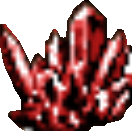
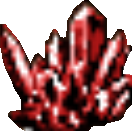
Data Class and Ship Manager

Changed region(s): [[0.9091, 0.3969, 1.0, 0.5802]]

diff --git a/js/ObjectFactory.js b/js/ObjectFactory.js
@@ -4,15 +4,17 @@ class ObjectFactory {
     }
 
     preload() {
-        this.images.push({name: "crystal", path: "assets/img/crystal.png"})
+        this.images.push({id: "crystal", path: "assets/img/crystal.png"})
+        this.images.push({id: "refinery", path: "assets/img/battleship.png"})
+        this.images.push({id: "drone", path: "assets/img/destroyer_alt.png"})
         for(let img of this.images) {
             img.image = loadImage(img.path);
         }
     }
 
-    getImageByName(name) {
+    getImageByID(id) {
         for(let img of this.images) {
-            if (img.name === name) {
+            if (img.id === id) {
                 return img.image;
             }
         }
@@ -20,14 +22,38 @@ class ObjectFactory {
     }
 
     createObject(x, y) {
-        let newObject = new Sprite(x, y);
-        newObject.debug = true;
-        return newObject;
+        let obj = new Sprite(x, y);
+        obj.debug = true;
+        return obj;
     }
 
     createResource(x, y, amount) {
-        let newObject = this.createObject(x, y);
-        newObject.image = this.getImageByName("crystal");
-        return newObject;
+        let obj = this.createObject(x, y);
+        obj.image = this.getImageByID("crystal");
+        obj.scale = 0.35;
+        return obj;
+    }
+
+    createRefinery(x, y) {
+        let obj = this.createObject(x, y);
+        obj.image = this.getImageByID("refinery");
+        obj.scale = 2;
+        return obj;
+    }
+
+    createShip(x, y, type) {
+        let obj = this.createObject(x, y);
+        obj.type = type;
+        return obj;
+    }
+
+    createDrone(x, y) {
+        let obj = this.createShip(x, y, "drone");
+        obj.image = this.getImageByID("drone");
+        obj.scale = 2;
+        obj.originalPosition = {x: x, y: y};
+        obj.targetResource = null;
+        obj.moveTimer = 0;
+        return obj;
     }
 }

diff --git a/js/Data.js b/js/Data.js
@@ -1,0 +1,53 @@
+class Data {
+    constructor() { 
+        this.factory = new ObjectFactory();
+
+        this.ships = new Array();
+        this.resources = new Array();
+
+        this.managerShip = new ManagerShip();
+    }
+
+    preload() {
+        this.factory.preload();
+    }
+
+    /*
+    * This is called at the start of the game to build the level
+    */
+    setup() {
+
+        for (let i = 0; i < 20; i++) {
+            let x = Math.random() * 1600;
+            let y = Math.random() * 900;
+            this.resources.push(this.factory.createResource(x, y, 100));
+        }
+
+        this.ships.push(this.factory.createRefinery(800, 450));
+        this.ships.push(this.factory.createDrone(900, 450));
+        this.ships.push(this.factory.createDrone(700, 450));
+    }
+
+    /*
+    * This is called each frame to update all our objects
+    */
+    update(timepassed) {
+        this.managerShip.update(timepassed, this);
+    }
+
+    getClosestResource(x, y) {
+        let index = -1;
+        let distance = 0;
+        for (let i = 0; i < this.resources.length; i++) {
+            let res = this.resources[i];
+            let dist = Utility.getDistance(x, y, res.x, res.y);
+            if (dist < distance || index < 0) {
+                index = i;
+                distance = dist;
+            }
+        }
+        return this.resources[index];
+    }
+}
+
+

diff --git a/js/ManagerShip.js b/js/ManagerShip.js
@@ -1,0 +1,34 @@
+class ManagerShip {
+    constructor() {
+    }
+
+    preload() {
+    }
+
+    update(timepassed, data) {
+
+        for(let ship of data.ships) {
+            if (ship.type === "drone") {
+                this.doDroneAI(timepassed, data, ship);
+            }
+        }
+    }
+
+    doDroneAI(timepassed, data, ship) {
+        //Insert Code or function here to handle drones each frame
+        if (ship.targetResource == null) {
+            ship.targetResource = data.getClosestResource(ship.x, ship.y);
+        }
+        ship.moveTimer += timepassed;
+        if (ship.moveTimer > 2000) {
+            ship.moveTimer -= 2000;
+        }
+        if (ship.moveTimer < 1000) {
+            ship.x = ship.originalPosition.x;
+            ship.y = ship.originalPosition.y;
+        } else {
+            ship.x = ship.targetResource.x;
+            ship.y = ship.targetResource.y;
+        }
+    }
+}

diff --git a/js/main.js b/js/main.js
@@ -1,27 +1,32 @@
 "use strict";
 
-let objectsToDraw = new Array();
-
+const data = new Data();
 const menu = new Menu();
-const factory = new ObjectFactory();
+
+var prevTime = 0;
+
 function preload(){
+    data.preload();
     menu.preload();
-    factory.preload();
 }
 
 function setup(){
+    prevTime = new Date().getTime();
+    data.setup();
     new Canvas(1600, 900);
     //menu.setup();
-
-    for (let i = 0; i < 20; i++) {
-        let x = Math.random() * 1600;
-        let y = Math.random() * 900;
-        objectsToDraw.push(factory.createResource(x, y, 100));
-    }
-    
 }
 
 function draw(){
-    background(125)
+    let newTime = new Date().getTime();
+	let msPassed = newTime - prevTime;
+	prevTime = newTime;
+
+	if (msPassed < 1) {
+		msPassed = 1;
+	}
+
+    data.update(msPassed);
+    background(25)
     //menu.draw();
 }

diff --git a/index.html b/index.html
@@ -8,7 +8,10 @@
 			<script src="https://p5play.org/v3/planck.min.js"></script>
 			<script src="https://p5play.org/v3/p5play.js"></script>
 			
+			<script src="./js/Utility.js" defer></script>
+			<script src="./js/ManagerShip.js" defer></script>
 			<script src="./js/ObjectFactory.js" defer></script>
+			<script src="./js/Data.js" defer></script>
 			<script src="./js/menu.js" defer></script>
 			<script src="./js/main.js" defer></script>
 			<link href="./css/base.css" rel="stylesheet" type="text/css">

diff --git a/js/Utility.js b/js/Utility.js
@@ -1,0 +1,16 @@
+class Utility {
+    constructor() {
+    }
+
+    static getDifference(v1, v2) {
+        if (v1 > v2) {
+            return v1-v2;
+        } else {
+            return v2-v1;
+        }
+    }
+
+    static getDistance(x1, y1, x2, y2) {
+        return Math.sqrt(Math.pow(this.getDifference(x1, x2), 2) + Math.pow(this.getDifference(y1, y2), 2));
+    }
+}
